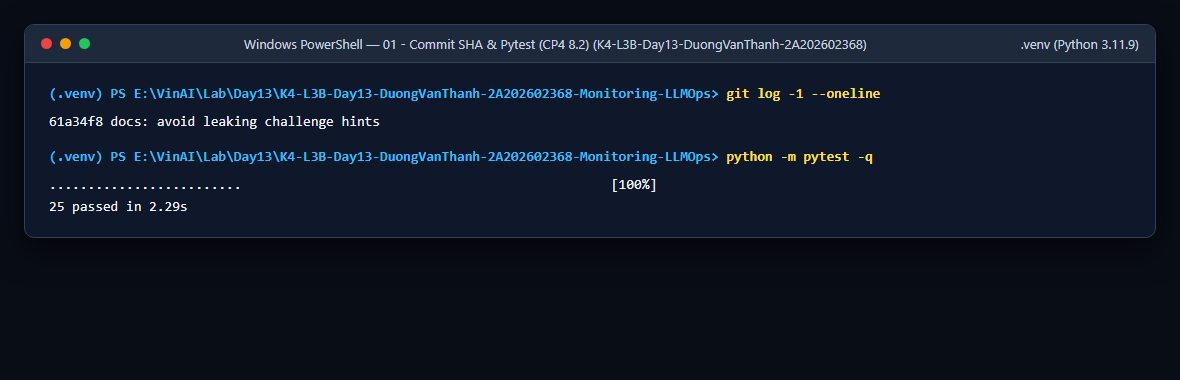
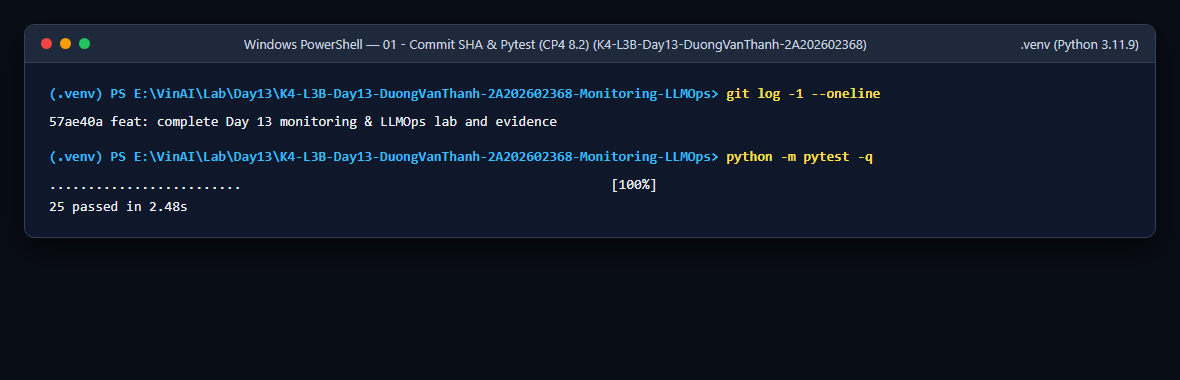
docs: record final commit SHA in REPORT.md and 01-pytest evidence

Changed region(s): [[0.0305, 0.2895, 0.4881, 0.3474], [0.122, 0.5211, 0.1525, 0.55]]

diff --git a/submission/REPORT.md b/submission/REPORT.md
@@ -8,7 +8,7 @@
 - **MSSV:** 2A202602368
 - **Lớp:** K4-L3B
 - **Repository URL:** `https://github.com/JJayzdev/K4-L3B-Day13-DuongVanThanh-2A202602368-Monitoring-LLMOps`
-- **Commit SHA cuối:** *(Điền `git log -1 --oneline` sau khi commit cuối)*
+- **Commit SHA cuối:** `57ae40a` (`57ae40a92421f3db9c114274bc41be7aa9787563` — `feat: complete Day 13 monitoring & LLMOps lab and evidence`)
 - **Challenge ID:** `day13-k4-l3b-monitoring-llmops-v1` *(Cập nhật/xác nhận khi tải `config/challenge.json` ở CP3)*
 - **Tên project Langfuse cá nhân:** `day13-k4-l3b-2A202602368`
 
